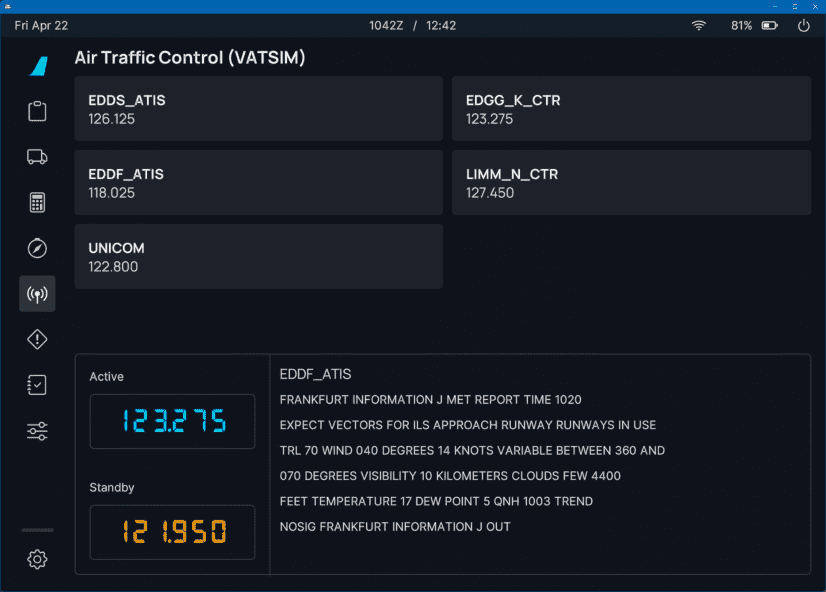
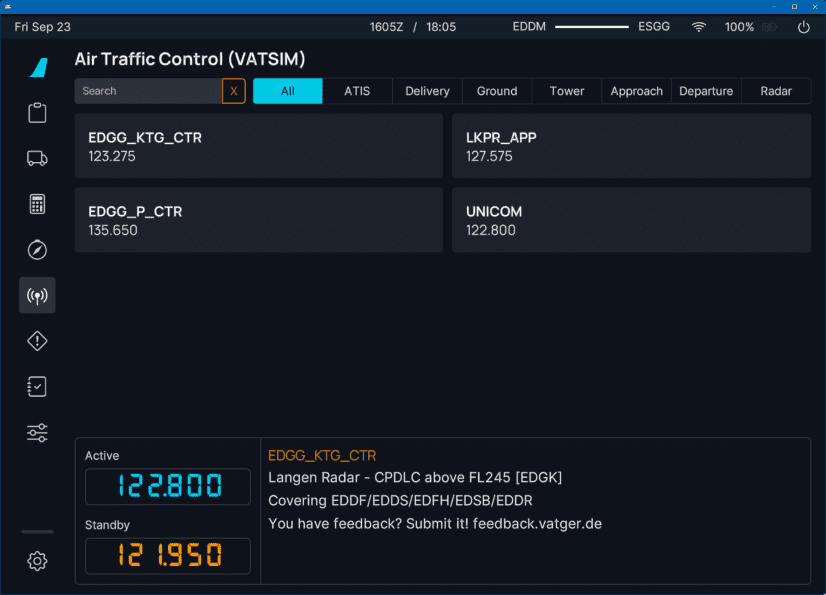
docs: flyPad Online ATC - new filter feature doc (#653)

diff --git a/docs/fbw-a32nx/feature-guides/flypados3/online-atc.md b/docs/fbw-a32nx/feature-guides/flypados3/online-atc.md
@@ -31,8 +31,7 @@ Go to the flyPad [ATSU/AOC settings page](settings.md#atsuaoc) and select your O
 ## Usage
 
 <div style="position: relative;">
-    <img src="/fbw-a32nx/assets/flypados3/flypad-online-atc-frequency.png" style="width: 100%; height: auto;" 
-loading="lazy">
+    <img src="/fbw-a32nx/assets/flypados3/flypad-online-atc-frequency.png" style="width: 100%; height: auto;" loading="lazy">
     <a href="../dashboard/">   <div class="imagemap" style="position: absolute; left: 1.7%; top:  6.9%; width: 5.8%; height: 7.0%;"><span class="imagemapname">Dashboard</span></div></a>
     <a href="../dispatch/">    <div class="imagemap" style="position: absolute; left: 1.7%; top: 14.1%; width: 5.8%; height: 7.0%;"><span class="imagemapname">Dispatch</span></div></a>
     <a href="../ground/">      <div class="imagemap" style="position: absolute; left: 1.7%; top: 21.1%; width: 5.8%; height: 7.0%;"><span class="imagemapname">Ground</span></div></a>
@@ -54,4 +53,15 @@ To get the ATIS information of the channel hover over the station and click on t
 
 To change a frequency hover over the station and click either `Set Active` or `Set Standby` depending on if you 
 want to immediately set the frequency as the active frequency or just as the standby frequency for later use. 
+
+### Filter the Station List
+
+![flypad-online-atc-filter](../../assets/flypados3/flypad-online-atc-filter.png){loading=lazy}
+
+Use the search and predefined filters to find the station you are looking for. 
+
+You can type any string in the search field to filter the list for stations with names containing that string. The 
+`x` button clears the search field. 
+
+To filter for a specific type of station just click on the appropriate filter button.
 

diff --git a/docs/dev-corner/dev-guide/setup-environment.md b/docs/dev-corner/dev-guide/setup-environment.md
@@ -122,7 +122,7 @@ Go to line 84 and add the following:
 
 After you save it should look like this:
 
-![hello-world-example-src-code](../assets/dev-guide/hello-world-example-src-code.png)
+![hello-world-example-src-code](../assets/dev-guide/hello-world-example-src-code.png){loading=lazy}
 
 Now recompile your branch:
 
@@ -136,6 +136,6 @@ After the successful compile start the sim and load the FlyByWire A32NX cold & d
 
 When turning on power to the aircraft the screens will do a self test. See if you can spot your code change there.
 
-![hello-world-pfd](../assets/dev-guide/hello-world-pfd.png)
+![hello-world-pfd](../assets/dev-guide/hello-world-pfd.png){loading=lazy}
 
 **Congratulations! You have successfully made a code change and deployed the new add-on to the simulator.**
